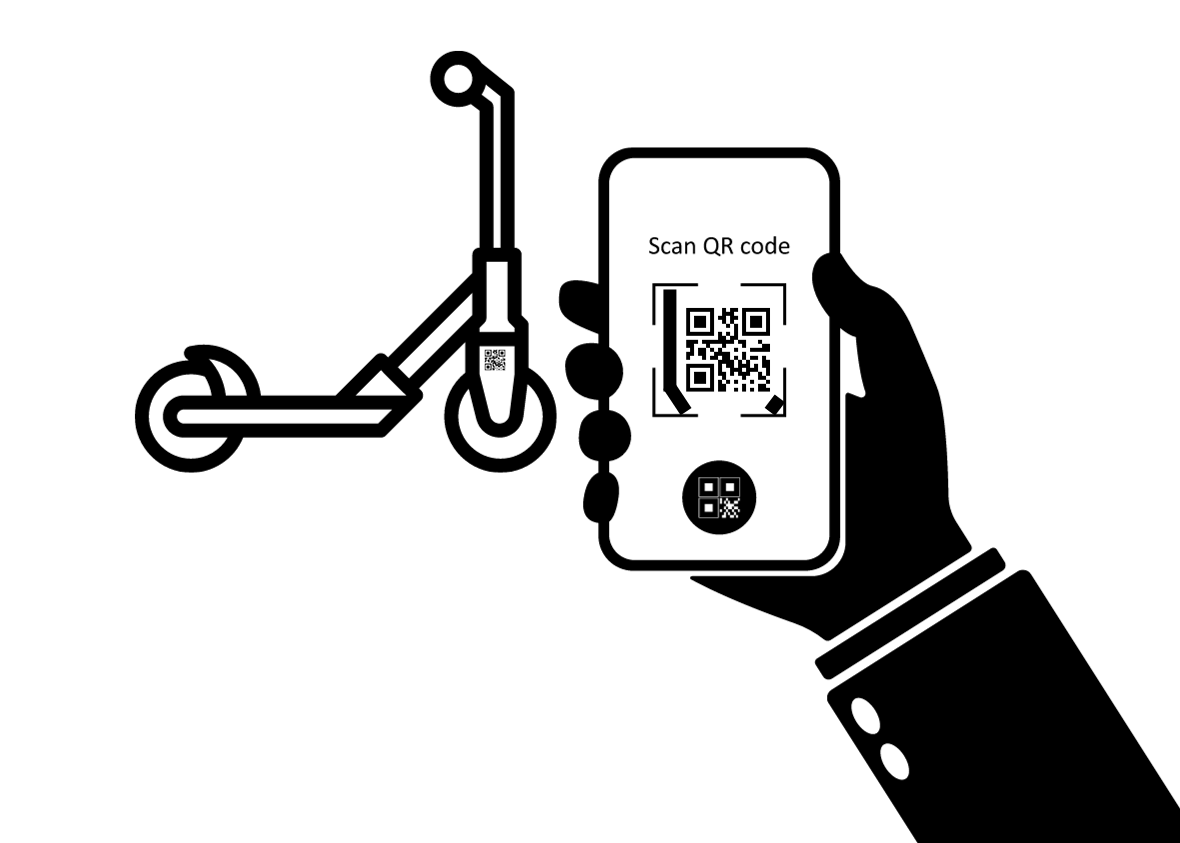
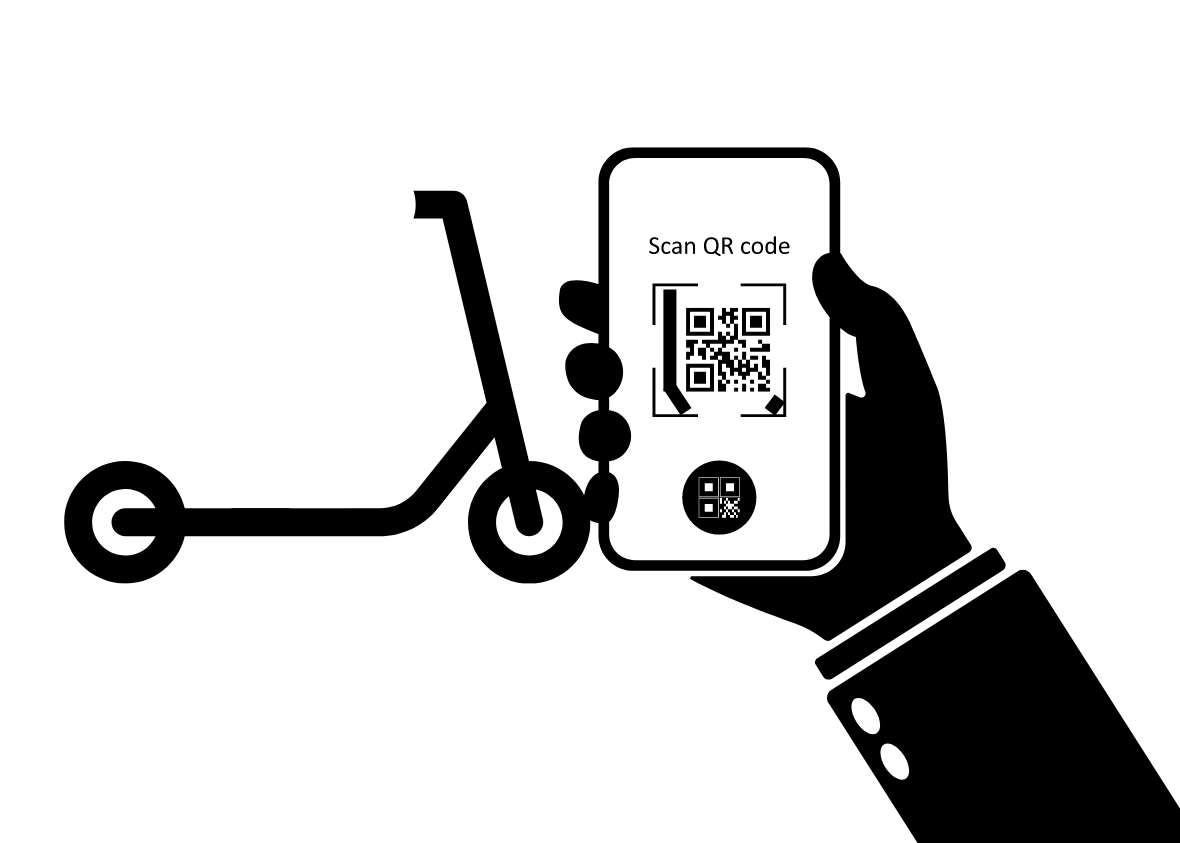
modify_design

diff --git a/assets/css/style.css b/assets/css/style.css
@@ -126,6 +126,13 @@ ion-icon { display: block; }
 
 img { height: auto; }
 
+img.insta_img {
+  height: 30px;
+}
+img.twitter_img {
+  height: 30px;
+}
+
 ion-icon {
   pointer-events: none;
   color: #00a3e0;
@@ -261,11 +268,11 @@ border: 1px solid #00a3e0;
 
 .section {
    padding-block: var(--section-padding); 
-   background: #a4d8eb;
+   background: #00a3e021;
   }
 
 .section-subtitle {
-  color: var(--orange-soda);
+  color: #00a3e0;
   font-family: var(--ff-barlow);
   font-size: var(--fs-4);
   text-align: left;
@@ -325,14 +332,14 @@ color:#313636;
   z-index: 4;
 }
 
-@media (max-width:750px) {
+@media (max-width:822px) {
   .header.active{
     background-color:#ffffff;
     font-weight: 600;
   }
 }
 
-@media (max-width:750px) {
+@media (max-width:822px) {
   .navbar-link{
     color:#313636;
     font-weight: 600;
@@ -347,7 +354,7 @@ color:#313636;
 .header > .container {
   display: flex;
   justify-content: space-between;
-  align-items: center;
+  /*align-items: center;*/
 }
 
 .logo {
@@ -356,7 +363,7 @@ color:#313636;
   font-size: 2.4rem;
 }
 .active .logo {
-  color: #00a3e0;
+  color: #1A1A1A;
 }
 
 .nav-toggle-btn { 
@@ -399,6 +406,7 @@ color:#313636;
 
 .navbar-link:is(:hover, :focus) { 
   color: #00a3e0;
+  border-bottom: 3px solid #00a3e0;
  }
 
 .navbar .btn {
@@ -674,7 +682,7 @@ text-align: left;
 }
 
 .contact-card .card-subtitle {
-  color: var(--orange-soda);
+  color: #00a3e0;
   font-family: var(--ff-barlow);
   font-size: var(--fs-4);
   font-weight: var(--fw-600);
@@ -961,7 +969,7 @@ text-align: left;
 }
 
 .blog-card .card-tag {
-  color: var(--orange-soda);
+  color: #00a3e0;
   margin-block-end: 5px;
 }
 
@@ -996,7 +1004,7 @@ text-align: left;
 \*-----------------------------------*/
 
 .footer {
-  background-color: #313636;
+  background-color: #067199;
   padding-block: 60px;
 }
 

diff --git a/index.html b/index.html
@@ -73,6 +73,16 @@
           <li>
             <a href="#contact" class="btn btn-primary">お問い合わせ</a>
           </li>
+          <li class="insta">
+             <a href="#" target="_blank">
+            <img src="https://rimo-japan.com/wp-content/themes/rimo/common/img/insta.png" alt="Instagram" class="insta_img">
+            </a>
+          </li>
+          <li class="twitter">
+            <a href="#" target="_blank">
+           <img src="./assets/images/logo-x.png" alt="Twitter" class="twitter_img">
+           </a>
+         </li>
 
         </ul>
       </nav>
@@ -219,14 +229,14 @@
 
                 <figure class="card-banner">
                   <a href="#">
-                    <img src="./assets/images/return.png" width="1181" height="843" loading="lazy" alt="Jim Morisson Says when the musics over turn off the light" class="img-cover">
+                    <img src="./assets/images/ride.png" width="1181" height="843" loading="lazy" alt="Jim Morisson Says when the musics over turn off the light" class="img-cover">
                   </a>
                 </figure>
 
                 <a href="#" class="card-tag">STEP3</a>
 
                 <h3 class="card-title">
-                  <a href="#">ポートに返却する</a>
+                  <a href="#">ライドする</a>
                 </h3>
 		<p class="section-text">
             	ライド後は、お近くのポートに返却し写真を撮影し、返却が完了となります。
